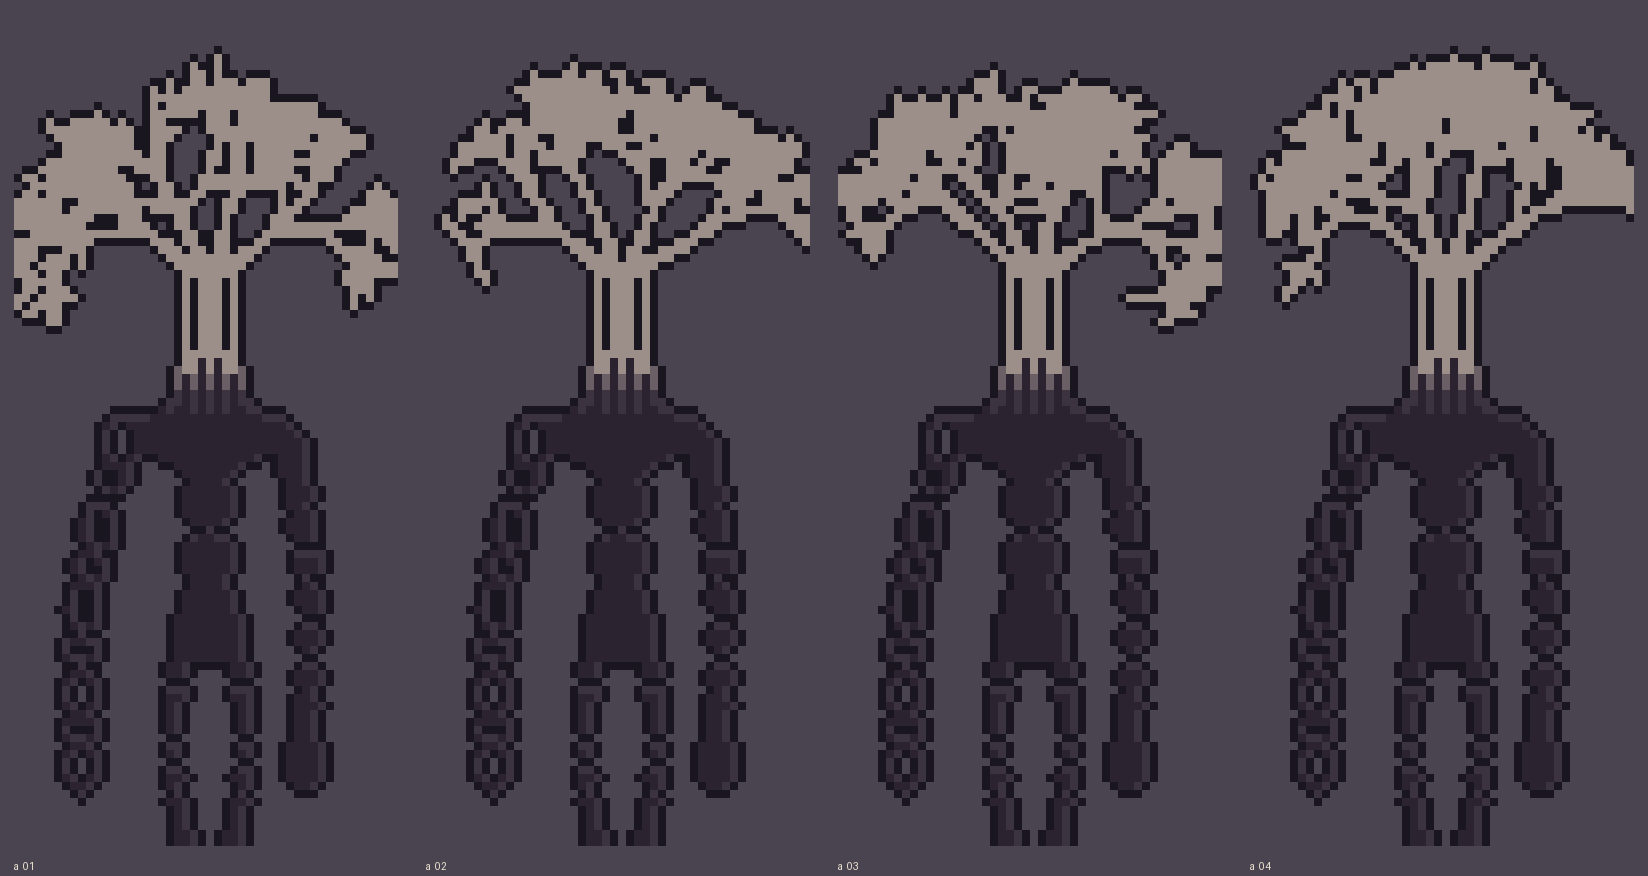
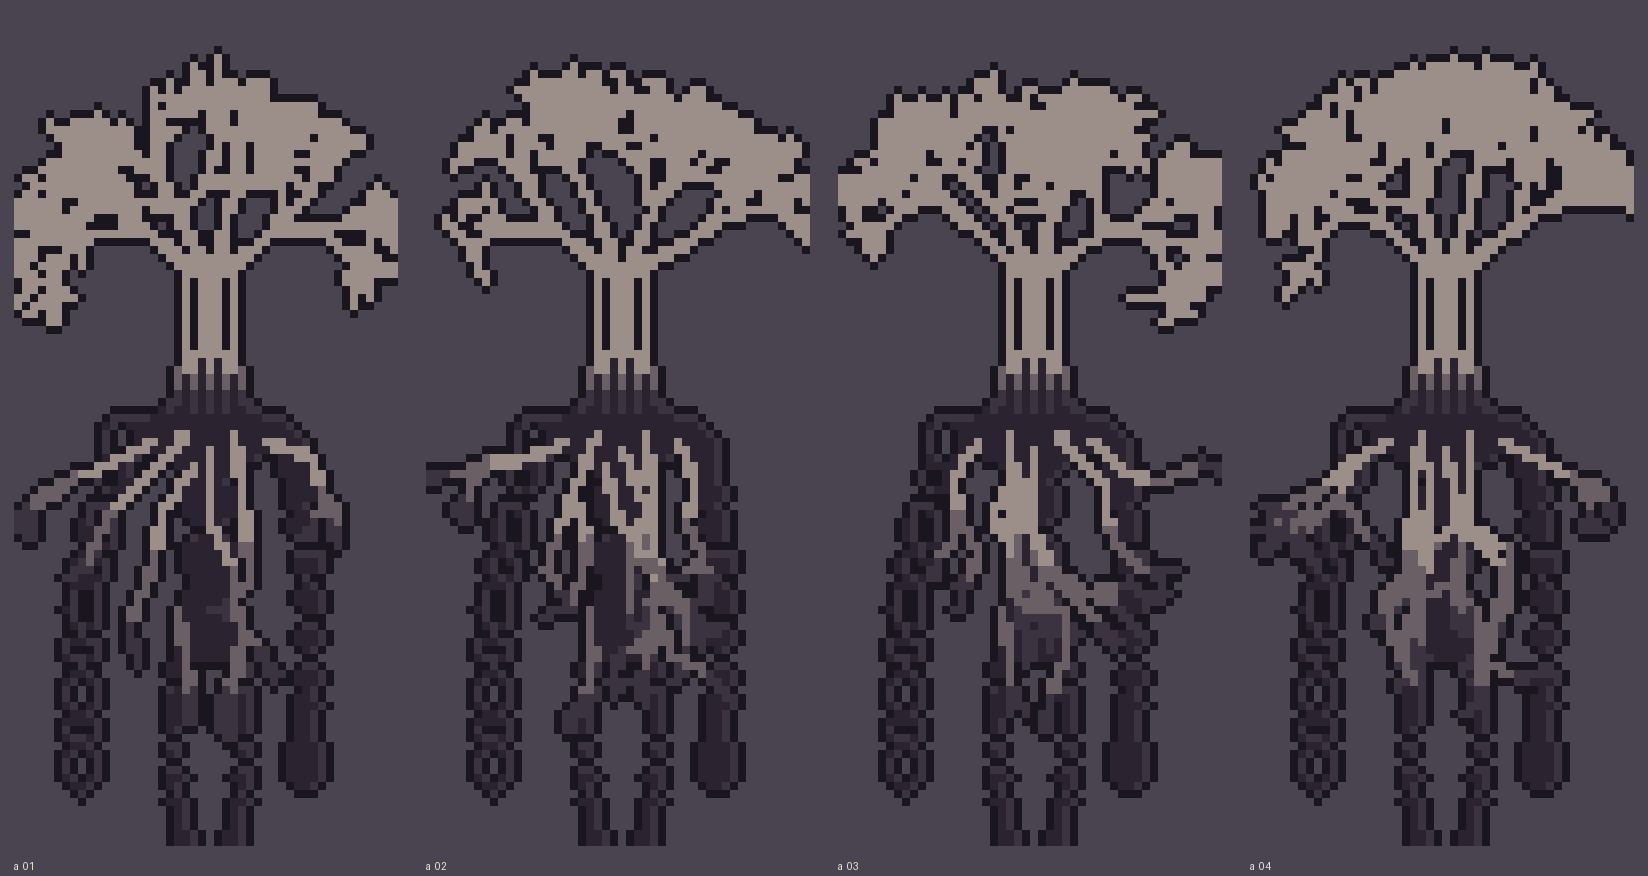
Tree head 11: add root growth over torso

diff --git a/tools/gen_t11.py b/tools/gen_t11.py
@@ -59,6 +59,15 @@ def beaded(c, pts, wmin=0.4, wmax=4.2, period=7):
         w = wmin + (wmax - wmin) * (.5 + .5 * math.sin(i * 6.28 / period))
         c.disc(x, y, w / 2, 's')
 
+def root(c, x, y, ang, L, depth, rng):
+    if depth <= 0 or L < 1.5: return
+    ang += (math.pi / 2 - ang) * .22 + rng.uniform(-.5, .5)          # 아래로 흘러내리며 구불거림
+    ex, ey = x + math.cos(ang) * L, y + math.sin(ang) * L
+    ch = 'l' if depth >= 4 else 'm' if depth >= 2 else 'd'            # 끝으로 갈수록 어두워짐
+    c.line(x, y, ex, ey, 1, 1, ch=ch)
+    for _ in range(rng.choice((1, 1, 2))):
+        root(c, ex, ey, ang + rng.uniform(-.8, .8), L * rng.uniform(.65, .95), depth - 1, rng)
+
 def chain(c, pts, gap=4.2, ry=3.4, rx=2.5):
     """사슬 팔: 고리가 번갈아 세로/가로로 꿰어진 모양. 고리 안쪽은 비워 둔다."""
     P = chaikin(pts, 3); acc = 0.0; i = 0; last = P[0]
@@ -85,6 +94,11 @@ def figure(seed):
     L = chain(c, [(13, 53), (8, 72), (8, 94)])
     tube(c, [(34, 53), (37, 70), (36, 90)], 4.2, 3.4); c.ell(36, 93, 2.6, 3.4, "s")
     trunk2(c, 5, 51, 31)
+    r2 = random.Random(seed + 100)
+    for sx, sy, a0, L0 in [(21, 52, 120, 8), (27, 52, 60, 8), (17, 53, 150, 6), (31, 53, 30, 6), (24, 54, 90, 9), (22, 56, 105, 7)]:
+        root(c, sx, sy, math.radians(a0), L0, 5, r2)
+    for sx, a0 in ((20, 100), (28, 80)):
+        root(c, sx, 74, math.radians(a0), 6, 3, r2)
     for i in range(4):
         dome(c, 24 + (i - 1.5) * 1.6, 31, math.radians(-90 + (i - 1.5) * rng.uniform(32, 40)), 7.5, 5, rng)
     return c
